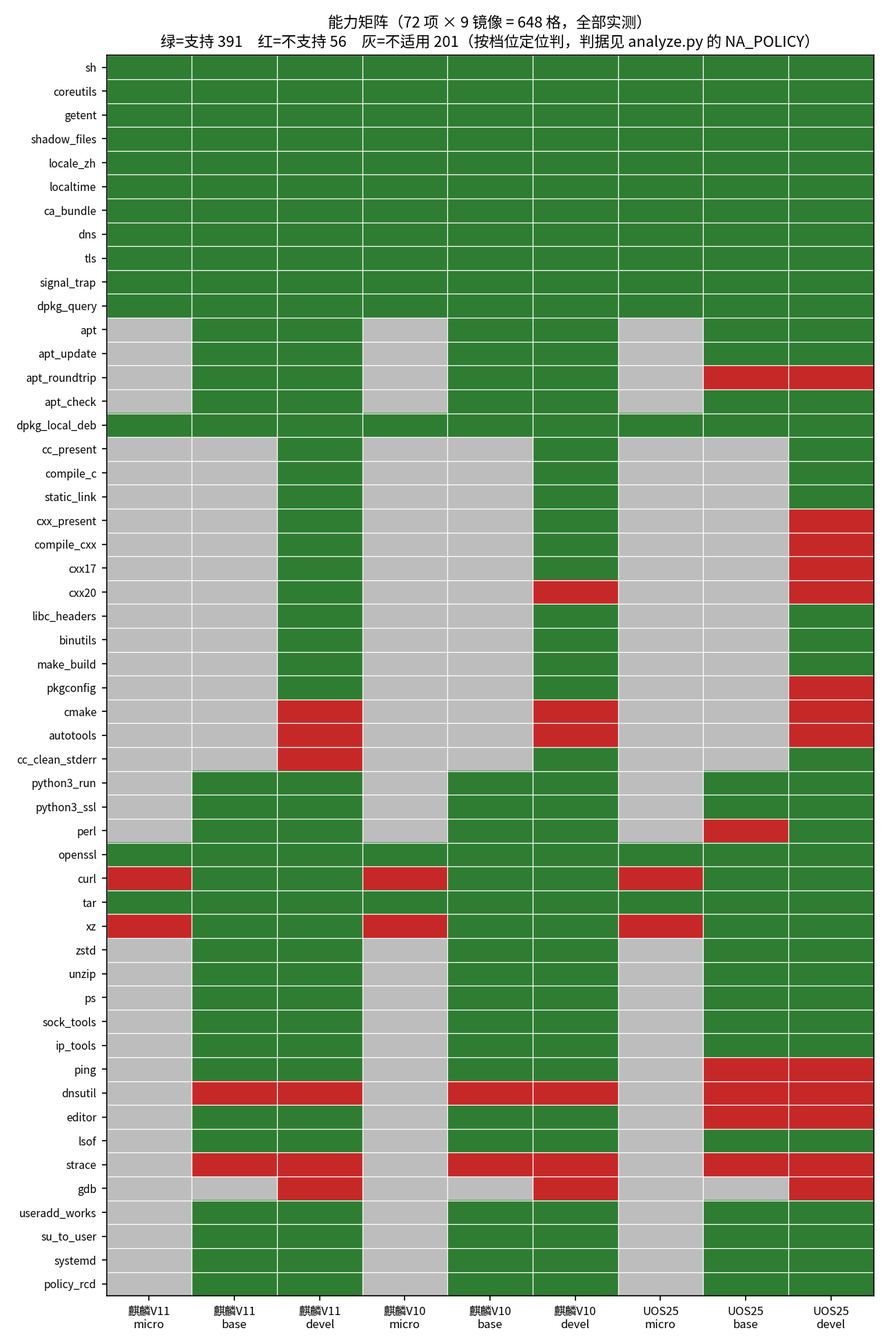
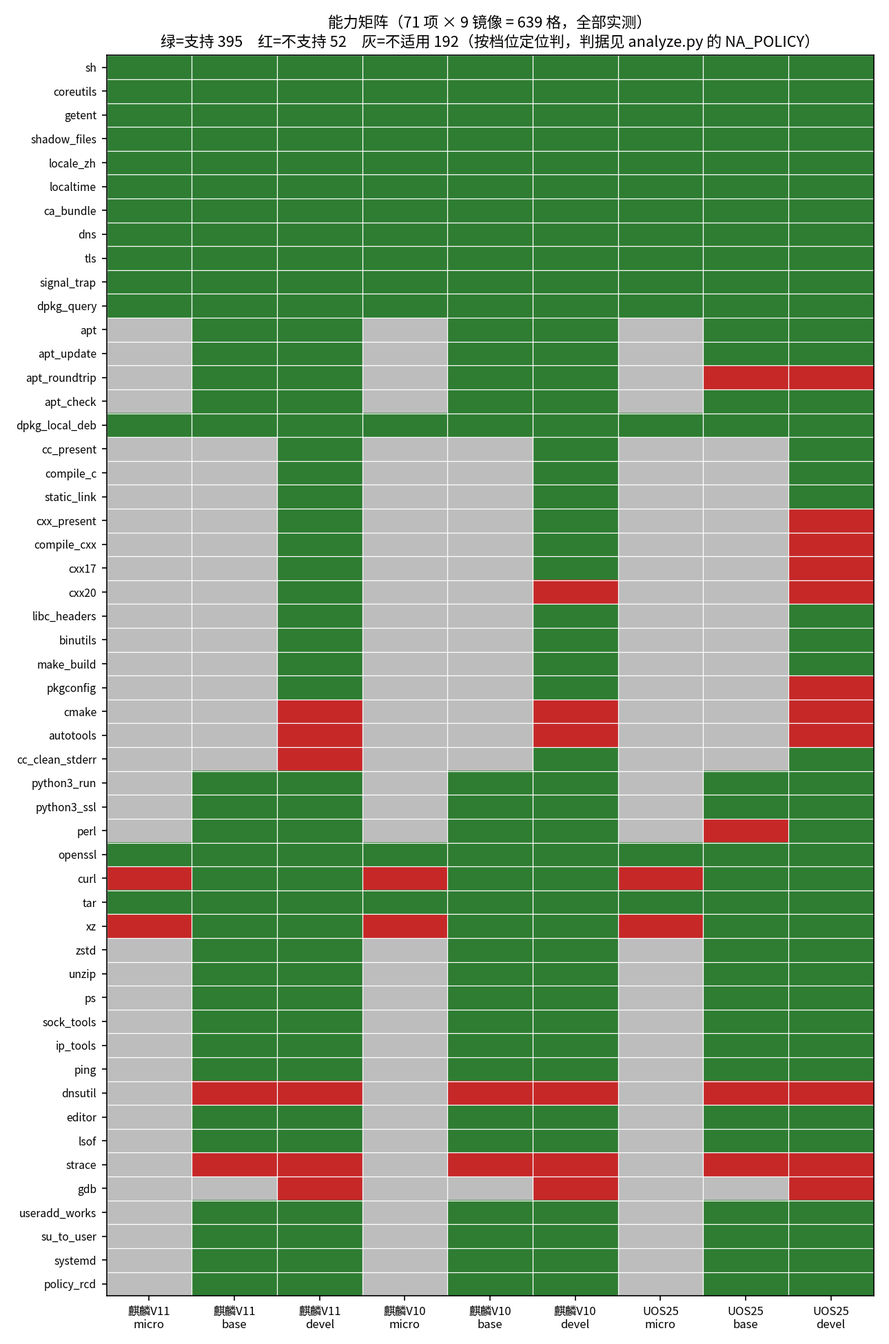
第三轮审稿修复：头条数字错、证据可被静默清零、门禁可被静默缩水
三个要命的
- 能力矩阵头条数字 391/56 是错的。给 UOS 切片补 iputils-ping/vim-tiny 重建镜像之后
  **能力探针没有重跑**，矩阵里 ping/editor 还是 N，正文与 §5.1「三家齐平」自相矛盾。
  重跑后真值 395/52。并给 collect_d3 加 provenance 断言：探针输出的 mtime 早于镜像
  Created 即 exit 1 —— 这类「数据比被测对象旧」的错必须机器可发现。
  （该断言首版自己有 bug：docker 的 .Created 带纳秒，fromisoformat 解析不了，已修。）
- collect_d6 把上一轮刚从 d4 拆掉的地雷原样又埋了一遍：失败时 exit 0 写盘，而它的
  退化输出恰好等于头条结论（0/14）——一次没连上网的重采会把「麒麟 14/14」静默变成
  「0/14」，看起来完全像真结果，还会把 1636 包清单抹成 null。已加严格守卫。
- verify.py 能被静默缩水：删掉 artifacts/repro-evidence.txt 会让 7 条交叉断言整块
  被 if 跳过，断言数 113→106 而汇总照样全绿。已加断言总数基线；README 抬头的断言数
  也改成与实跑真比对（此前只捕获不比对，写 99999 全绿）。

据实修正
- 「policy 会把 0/14 虚报成 4/14」现在是 6/14 —— 本轮刚加的 ping/vim 让预装数从 4 变 6。
- 「ip/lsof/zstd/unzip/ping/vim-tiny 原先没切进来」列错了：前四个更早一轮已补，
  本轮新增的只有 ping 与 vim-tiny。这是写在「更正事实」段落里的新错误。
- UOS 源规模口径错。4758 是 apt-cache stats 的 Total package names，含本机已装的
  OS 包与仅被依赖引用的名字，不是「源里有多少包」。改用源索引条目数：**2496**，
  用 apt-helper cat-file 解开压缩的 Packages 索引数出来。全仓库（含 conf/lib/test
  的注释）统一到这个口径。
- 采集补**阳性对照**：从源索引取一个真实存在的包确认 madison 查得到。没有它，
  「14 个工具全装不上」区分不了「源里没有」与「源根本没通」。
- t11 表按 `:` 切第一段拿到的是包名而非版本，整张「逐工具明细」退化成工具名重复三遍。
  改取 madison 的版本号字段。
- NA_POLICY 清死条目（default_target 已进 INFO_PROBES、masked_units 根本不是探针 key）；
  sudo 九档全 NA 属零信息凑数项且从未被真判定，与「全部实测」的表述冲突，移出矩阵。
  最终口径 71 项 / 639 格 / 支持 395 / 缺口 52 / 不适用 192。
- 补齐零覆盖数字的断言（masked 单元数、setuid 面、三态各项、抬头各项计数），
  全部带上下文避免裸子串撞车。断言 113 → 131 条。

CI 补两步
- 重跑 collect_d4 并与提交的 raw 比对（忽略 collected_at，否则永远失败）：
  此前 artifacts/f4-*.log 自称一手证据却没有任何东西对账，改「通过 365→300」全绿。
  现在改坏日志即被抓（已自证）。
[…]

diff --git a/scripts/analyze.py b/scripts/analyze.py
@@ -105,16 +105,15 @@ NA_POLICY = {
               "autotools", "cc_clean_stderr", "python3_dev", "python3", "python3_run",
               "python3_ssl", "perl", "git", "zstd", "unzip", "ps", "top", "sock_tools",
               "ip_tools", "ping", "dnsutil", "file", "pager", "editor", "lsof", "strace", "gdb",
-              "useradd", "useradd_works", "su_to_user", "sudo", "systemd", "default_target",
-              "masked_units", "policy_rcd"},
+              "useradd", "useradd_works", "su_to_user", "systemd", "policy_rcd"},
     # base 的 NA 集里原先有 strace —— 但 §3 给 base 的定位明写了「线上排查」，
     # 而 strace 是纯排查工具、不依赖工具链，把它判成「不适用」与定位直接冲突。
     # 改为如实记 N（麒麟侧一条 apt 就有，见 t11；UOS 侧是真缺口）。
     # gdb 保留 NA：它要调试符号与工具链生态，属 devel 范畴。
     "base":  {"cc_present", "compile_c", "static_link", "cxx_present", "compile_cxx", "cxx17",
               "cxx20", "libc_headers", "binutils", "make", "make_build", "pkgconfig", "cmake",
-              "autotools", "cc_clean_stderr", "python3_dev", "git", "gdb", "sudo"},
-    "devel": {"sudo"},
+              "autotools", "cc_clean_stderr", "python3_dev", "git", "gdb"},
+    "devel": set(),
 }
 # 探针输出里有两类东西，不能混算：
 #   INFO_PROBES 是**环境指纹**（架构、glibc 版本、setuid 数量……），值是版本号或计数，
@@ -124,10 +123,14 @@ NA_POLICY = {
 # 指纹另出一张 t10 表，哨兵由 collect 阶段硬断言，两者都不进三态矩阵。
 INFO_PROBES = {"arch", "glibc", "os_id", "setuid_bins", "file_caps", "default_target"}
 SENTINELS = {"probe_complete"}
+# sudo 在九档全是 NA，是零信息的凑数项（占 9 格），而且它从未被真判定过 ——
+# 与「648 格全部实测」的表述冲突。直接从矩阵里去掉，理由写在 report.md §3。
+# default_target 已进 INFO_PROBES，masked_units 根本不是探针 key，两个死条目一并清掉。
+EXCLUDED = {"sudo"}
 
 probes = d3["probes"]
 allkeys = sorted({k for v in probes.values() for k in v if not k.startswith("_")})
-keys = [k for k in allkeys if k not in INFO_PROBES and k not in SENTINELS]
+keys = [k for k in allkeys if k not in INFO_PROBES and k not in SENTINELS and k not in EXCLUDED]
 order = [f"{d}:{t}" for d in ["kylin11", "kylin10", "uos25"] for t in ["micro", "base", "devel"]]
 
 def tri(col, key):
@@ -198,9 +201,16 @@ csv("t09_build_paths.csv",
 S["build_methods"] = sorted({i["method"] for i in d5["isos"]})
 
 # ── T11 工具可装性：区分「没预装」与「装不上」的定量依据 ────────────────────
-rows = [[t] + [d6["images"][k]["candidates"].get(t, "?").split(":")[0] if
-               d6["images"][k]["candidates"].get(t, "NOREPO") != "NOREPO" else "装不上"
-               for k in ("kylin11", "kylin10", "uos25")] for t in d6["tools"]]
+def _cand(k, t):
+    """candidates[t] 形如 `iproute2: iproute2 | 6.1.0-ok1k0.1 | http://…`。
+    早先按 `:` 切第一段，拿到的是包名而不是版本，整张明细表退化成工具名重复三遍。
+    这里取 madison 输出的第二段（版本号），那才是「装得上、装的是哪版」的信息。"""
+    v = d6["images"][k]["candidates"].get(t, "NOREPO")
+    if v == "NOREPO":
+        return "装不上"
+    parts = [x.strip() for x in v.split("|")]
+    return parts[1] if len(parts) > 1 else v
+rows = [[t] + [_cand(k, t) for k in ("kylin11", "kylin10", "uos25")] for t in d6["tools"]]
 csv("t11_tool_installability.csv", ["tool", "kylin11", "kylin10", "uos25"], rows)
 for k in ("kylin11", "kylin10", "uos25"):
     S[f"installable_{k}"] = d6["images"][k]["installable"]
@@ -211,8 +221,14 @@ S["uos_iso_has_gxx"] = _has.get("g++")
 S["uos_iso_missing"] = sorted(k for k, v in _has.items() if v is False)
 # UOS apt 源规模：从 apt-cache stats 的原文里取
 import re as _re
-_m = _re.search(r"Total package names:\s*(\d+)", d6.get("uos_apt_scale") or "")
-S["uos_apt_package_names"] = int(_m.group(1)) if _m else None
+# 源规模用索引条目数，不用 Total package names（后者含已装与被引用的名字）
+_sc = d6.get("uos_apt_scale") or ""
+_m = _re.search(r"---repo-entries---\s*\n\s*(\d+)", _sc)
+S["uos_apt_repo_packages"] = int(_m.group(1)) if _m else None
+_m0 = _re.search(r"Total package names:\s*(\d+)", _sc)
+S["uos_apt_total_names"] = int(_m0.group(1)) if _m0 else None
+# 阳性对照：源里真实存在的包必须查得到，用来区分「源里没有」与「源没通」
+S["uos_apt_positive_control"] = bool(_re.search(r"---positive-control---\s*\nsample=\S+\n\s*\S+\s*\|", _sc))
 _m2 = _re.search(r"Normal packages:\s*(\d+)", d6.get("uos_apt_scale") or "")
 S["uos_apt_normal_packages"] = int(_m2.group(1)) if _m2 else None
 

diff --git a/scripts/verify.py b/scripts/verify.py
@@ -7,7 +7,7 @@
 ⚠ 它只覆盖被写成断言的那些数字。未被覆盖的仍需人工核对，
 不要把「verify 全绿」等同于「每个数字都被机器核过」。
 """
-import json, pathlib, re, sys
+import json, os, pathlib, re, sys
 
 ROOT = pathlib.Path(__file__).resolve().parent.parent
 S = json.loads((ROOT / "derived" / "stats.json").read_text())
@@ -95,7 +95,10 @@ ok(S["installable_kylin10"] == S["installability_tools"], "麒麟 V10 应 14/14 
 ok(S["installable_uos25"] == 0, "UOS 应 0/14 —— 这是「硬缺口」论断的定量依据")
 in_text(S["uos_iso_packages"], label="UOS ISO 包数")
 ok(S["uos_iso_has_gxx"] is False, "UOS ISO 里不应有 g++（C++ 构建环境论断的依据）")
-in_text(S["uos_apt_package_names"], label="UOS apt 源包名数")
+in_text(S["uos_apt_repo_packages"], label="UOS 源提供的包数",
+        ctx=rf"源只提供 {S['uos_apt_repo_packages']} 个包")
+ok(S["uos_apt_positive_control"] is True,
+   "UOS 源规模采集必须带阳性对照 —— 否则「工具都装不上」区分不了「源里没有」与「源没通」")
 ok(S["sbom_passed"] == 9, "sbom 应 9 个镜像全通过")
 ok(S["mutation_skipped"] == 1, "变异测试有 1 条跳过（mtab），正文必须交代")
 in_text("1 跳过", label="变异跳过项")
@@ -124,6 +127,29 @@ t8 = (TAB / "t08_vendor_defects.csv").read_text().splitlines()
 ok(len(t8) - 1 == S["defects"], "t08 行数应等于缺陷数")
 for d in ("D01", "D02", "D05", "D08", "D09", "D10", "D12"):
     ok(d in REPORT or d in t8[0] or any(d in l for l in t8), f"缺陷 {d} 应在正文或表里出现")
+
+# ── 覆盖 review 点名的零覆盖数字（都带上下文，避免裸子串撞车）──────────────
+for d, n in S["masked_units_by_distro"].items():
+    nm = {"kylin10": "麒麟 V10", "kylin11": "麒麟 V11", "uos25": "UOS"}[d]
+    ok(any(re.search(rf"{n} 个", x) for x in [REPORT]), f"正文应写明 {nm} 的 masked 单元数 {n}")
+in_text(S["setuid_micro"]["kylin10"], label="V10 micro 的 setuid 数",
+        ctx=rf"V10 micro 档有 {S['setuid_micro']['kylin10']} 个")
+in_text(S["setuid_micro"]["kylin11"], label="micro 的 setuid 数",
+        ctx=rf"各只有 {S['setuid_micro']['kylin11']} 个 setuid")
+in_text(S["cells_supported"], label="支持格数", ctx=rf"支持 {S['cells_supported']}、")
+in_text(S["cells_gap"], label="缺口格数", ctx=rf"缺口 {S['cells_gap']}、")
+in_text(S["cells_na"], label="不适用格数", ctx=rf"不适用 {S['cells_na']}")
+in_text(S["mutation_caught"], label="变异用例数", ctx=rf"变异用例 \*\*{S['mutation_caught']}\*\* 条")
+
+# README 抬头的各项计数
+for v, lbl, ctx in [
+    (S["images_built"], "构建镜像数", r"构建镜像 \*\*{v}\*\* 个"),
+    (len(S["build_methods"]), "构建路径数", r"构建路径 \*\*{v}\*\* 条"),
+    (S["capability_cells"], "能力矩阵格数", r"能力矩阵 \*\*{v}\*\* 格"),
+    (S["defects"], "缺陷条数", r"厂商缺陷留档 \*\*{v}\*\* 条"),
+]:
+    in_text(v, where="readme", label=f"README {lbl}", ctx=ctx.replace("{v}", str(v)))
+    in_text(v, where="report", label=f"report {lbl}", ctx=ctx.replace("{v}", str(v)))
 
 # ── 结构性检查 ──────────────────────────────────────────────────────────────
 # 图表引用只查**正文**：附录 A/B 是完整索引，若把附录算进来，这条断言永不失败
@@ -158,7 +184,19 @@ if m:
 mr = re.search(r"机器核对断言 \*\*(\d+)\*\* 条", README)
 ok(mr is not None, "README 抬头应声明机器核对断言条数")
 
-print(f"执行断言 {N} 条")
+# 断言总数基线。没有它，删掉 artifacts/repro-evidence.txt 会让 7 条交叉断言整块被
+# if 跳过，断言数从 113 悄悄掉到 106 而汇总照样全绿 —— 证据消失即断言消失。
+# 这与 test/verify.sh 里对镜像检查数设基线是同一个道理，之前只给那边设了。
+BASELINE = int(os.environ.get("VERIFY_BASELINE", "131"))
+if N < BASELINE:
+    print(f"❌ 执行断言 {N} 条，低于基线 {BASELINE} —— 有断言被静默跳过"
+          f"（证据文件缺失？条件分支没进去？）")
+    sys.exit(1)
+# README 抬头的断言数必须与实际执行数相等（此前只捕获不比对，写 99999 也全绿）。
+# ⚠ 这条检查**不走 ok()**：它自己若计入 N，抬头数就永远比实跑少 1，形成自指。
+if mr and int(mr.group(1)) != N:
+    BAD.append(f"README 抬头写的机器核对断言 {mr.group(1)} 条 ≠ 实际执行 {N} 条")
+print(f"执行断言 {N} 条（基线 {BASELINE}）")
 if BAD:
     print(f"❌ {len(BAD)} 条未过：")
     for b in BAD: print("  ✗", b)

diff --git a/scripts/collect_d3_capabilities.py b/scripts/collect_d3_capabilities.py
@@ -8,7 +8,7 @@ TLS 要真握手、apt 要真装真卸。不看包列表推断 —— 装了 gcc
   --run   现场重跑 test/run-capabilities.sh（需要九个镜像已在本地 docker 里）
   默认    从 --from 指定目录读已落盘的 caps-*.txt（用于在没有镜像的机器上重算）
 """
-import argparse, json, os, pathlib, subprocess, sys, time
+import argparse, datetime, json, os, pathlib, re, subprocess, sys, time
 
 ROOT = pathlib.Path(__file__).resolve().parent.parent
 OUT = ROOT / "raw" / "d3_capabilities.json"
@@ -39,18 +39,39 @@ def main():
     src = pathlib.Path(a.src)
     data = {"collected_at": time.strftime("%Y-%m-%dT%H:%M:%SZ", time.gmtime()),
             "source_dir": str(src), "probes": {}}
-    missing = []
+    missing = []; stale = []
     for d in DISTROS:
         for t in TIERS:
             f = src / f"caps-{d}-{t}.txt"
             if not f.exists():
                 missing.append(f.name); continue
             kv = parse_caps(f.read_text(errors="replace"))
+            # provenance：探针输出必须不早于镜像本身。UOS 补了 iputils-ping/vim-tiny
+            # 重建之后探针没重跑，矩阵里 ping/editor 还是 N，头条数字因此错了 4 格 ——
+            # 这类「数据比被测对象旧」的错误必须机器可发现。
+            img = {"kylin11": "kylin-desktop-v11", "kylin10": "kylin-desktop-v10",
+                   "uos25": "uos-desktop-v25"}[d] + ":" + t
+            created = subprocess.run(
+                f"docker image inspect {img} --format '{{{{.Created}}}}'",
+                shell=True, capture_output=True, text=True).stdout.strip()
+            if created:
+                mt = datetime.datetime.fromtimestamp(f.stat().st_mtime, datetime.timezone.utc)
+                # docker 的 .Created 带纳秒（9 位小数），fromisoformat 在 3.11 前只吃 3/6 位，
+                # 直接解析会抛 ValueError 把整个采集打断 —— 截断到微秒再解。
+                _c = re.sub(r"(\.\d{6})\d+", r"\1", created.replace("Z", "+00:00"))
+                ct = datetime.datetime.fromisoformat(_c)
+                kv["_probe_mtime"] = mt.isoformat()
+                kv["_image_created"] = ct.isoformat()
+                if mt < ct:
+                    stale.append(f"{img}：探针 {mt:%H:%M:%SZ} 早于镜像 {ct:%H:%M:%SZ}")
             # 哨兵：探针必须跑到最后一行，否则前面所有「通过」都不可信
             kv["_probe_complete"] = kv.get("probe_complete", "N")
             data["probes"][f"{d}:{t}"] = kv
     if missing:
         print(f"!! 缺少探针输出：{missing}", file=sys.stderr); sys.exit(1)
+    if stale:
+        print("!! 探针输出比镜像旧，数据不可用（重跑 test/run-capabilities.sh）：\n  - "
+              + "\n  - ".join(stale), file=sys.stderr); sys.exit(1)
     bad = [k for k, v in data["probes"].items() if v["_probe_complete"] != "Y"]
     if bad:
         print(f"!! 这些探针没跑完，数据不可用：{bad}", file=sys.stderr); sys.exit(1)

diff --git a/scripts/collect_d6_installability.py b/scripts/collect_d6_installability.py
@@ -82,9 +82,23 @@ def main():
         data["cxx_probe"][did] = dsh(img, cxx_script)
 
     print("  UOS apt 源规模", file=sys.stderr)
+    # ⚠ 口径：`apt-cache stats` 的 Total package names 不是「源里有多少包」——
+    # 它把本机已装的 OS 包和只在依赖里被引用过的名字也算进去了。真正该引用的是
+    # 源索引里的条目数，用 apt-helper 解开压缩的 Packages 索引来数。
+    # 另外补一条**阳性对照**：源里确实存在的某个包必须能被 madison 查到，
+    # 否则「14 个工具都装不上」区分不了「源里没有」与「源根本没通」。
     data["uos_apt_scale"] = dsh("uos-desktop-v25:base",
-        "apt-get update -qq >/dev/null 2>&1; apt-cache stats 2>/dev/null | head -6; "
-        "echo '---pkgnames---'; apt-cache pkgnames 2>/dev/null | sort -u | wc -l; "
+        "apt-get update -qq >/dev/null 2>&1\n"
+        "echo '---stats---'; apt-cache stats 2>/dev/null | head -6\n"
+        "echo '---repo-entries---'\n"
+        "apt-get indextargets --format '$(FILENAME)' 2>/dev/null | grep binary-amd64 | "
+        "while read f; do /usr/lib/apt/apt-helper cat-file \"$f\" 2>/dev/null; done | "
+        "grep -c '^Package: '\n"
+        "echo '---positive-control---'\n"
+        "p=$(apt-get indextargets --format '$(FILENAME)' 2>/dev/null | grep binary-amd64 | "
+        "while read f; do /usr/lib/apt/apt-helper cat-file \"$f\" 2>/dev/null; done | "
+        "sed -n 's/^Package: //p' | head -1)\n"
+        "echo \"sample=$p\"; apt-cache madison \"$p\" 2>/dev/null | head -1\n"
         "echo '---nano---'; apt-cache policy nano 2>/dev/null | head -3")
 
     # UOS ISO 内的包清单：从切片源的 dpkg info 目录数 .list 文件
@@ -104,6 +118,22 @@ def main():
         }
     else:
         print("!! 取不到 UOS 切片源的包清单（需要 builder 容器 dosb 在跑）", file=sys.stderr)
+
+    # 失败即退出，绝不写盘。这个脚本的退化输出恰好等于它的头条结论（0/14）——
+    # 一次没连上网的重采会把「麒麟 14/14」静默变成「麒麟 0/14」，看起来完全像真结果，
+    # 还会把已提交的 1636 包清单抹成 null。比 d4 那次更危险，所以守卫要更严。
+    bad = []
+    for did, _ in IMAGES:
+        r = data["images"].get(did, {})
+        if not r.get("raw"):
+            bad.append(f"{did} 的探针无输出（镜像不在？docker 不可用？）")
+    if not (data.get("uos_apt_scale") or "").strip():
+        bad.append("UOS apt 源规模没采到")
+    if not data.get("uos_iso_inventory"):
+        bad.append("UOS ISO 包清单没采到（需要 builder 容器 dosb 在跑，或设 UOS_SLICE_SRC）")
+    if bad:
+        print("!! 采集不完整，不写盘：\n  - " + "\n  - ".join(bad), file=sys.stderr)
+        sys.exit(1)
 
     OUT.write_text(json.dumps(data, ensure_ascii=False, indent=2) + "\n")
     s = " ".join(f"{d}={data['images'][d]['installable']}/{len(TOOLS)}" for d, _ in IMAGES)

diff --git a/README.md b/README.md
@@ -1,8 +1,8 @@
 # 从 ISO 为国产桌面操作系统构建分档容器镜像
 
-> 基准日 **2026-08-30** ｜ 构建镜像 **9** 个（3 发行版 × 3 档位）｜ 构建路径 **3** 条 ｜ 能力矩阵 **648** 格全部实测 ｜ 验收断言 **365** 条 ｜ 变异用例 **12** 条 ｜ 机器核对断言 **113** 条（`python3 scripts/verify.py`）｜ 厂商缺陷留档 **12** 条 ｜ 一手数据集 **6** 组 ｜ 图 **6** 张 ｜ 可复算表 **13** 张
+> 基准日 **2026-08-30** ｜ 构建镜像 **9** 个（3 发行版 × 3 档位）｜ 构建路径 **3** 条 ｜ 能力矩阵 **639** 格全部实测 ｜ 验收断言 **365** 条 ｜ 变异用例 **12** 条 ｜ 机器核对断言 **131** 条（`python3 scripts/verify.py`）｜ 厂商缺陷留档 **12** 条 ｜ 一手数据集 **6** 组 ｜ 图 **6** 张 ｜ 可复算表 **13** 张
 
-要把编译好的软件交付到客户的银河麒麟或统信 UOS 桌面上，交付前得先在那个环境里验一遍。厂商发的是 ISO，容器镜像要么没有、要么不是同一个东西。本仓库把"从桌面版 ISO 自己造分档镜像"这件事做通并留下完整证据：三条构建路径、九个镜像、648 格实测能力矩阵、五道验收门禁。
+要把编译好的软件交付到客户的银河麒麟或统信 UOS 桌面上，交付前得先在那个环境里验一遍。厂商发的是 ISO，容器镜像要么没有、要么不是同一个东西。本仓库把"从桌面版 ISO 自己造分档镜像"这件事做通并留下完整证据：三条构建路径、九个镜像、639 格实测能力矩阵、五道验收门禁。
 
 **完整报告：[`report.md`](report.md)**
 
@@ -18,7 +18,7 @@
 | 2 | **误读的技术根源是一个字段：两者 `os-release` 的 `ID` 都是 `kylin`。** 按 `ID` 判发行版是常见做法，而这个字段在这里不具备区分力，得看 `NAME` 或包格式 | [§2.1](report.md#21-麒麟有官方镜像是个误读那是另一条产品线)、`os_id_collision=True` |
 | 3 | **商业桌面线的官方容器镜像一个都没有。** 8 条存在性探测里只有 1 条命中：麒麟桌面 0 个、统信 UOS 0 个，连服务器线的 `kylin-server-minimal:v11` 也不存在。社区线则有（openKylin 2.0/3.0、deepin-core、beige、apricot） | [§2](report.md#2-国产桌面-os-的官方容器镜像现状)、[`t02`](derived/tables/t02_registry_existence_probes.csv) |
 | 4 | **一条 ISO 一条路。** 三个被试没有一条通用路径：V11 走 `mmdebstrap`，V10 因 debconf 依赖环 + 宿主 dpkg 1.22 与目标 1.19.7 的代差只能两阶段自举，UOS V25 是 OSTree 不可变系统只能从 squashfs 按包依赖闭包切片 | [§4](report.md#4-三条构建路径)、[`t09`](derived/tables/t09_build_paths.csv) |
-| 5 | **UOS V25 不能作为 C++ 构建环境。** 它的 ISO（1636 个包）里没有 g++，而它没有 apt 形式的 OS 软件源（源内 4758 个包名全是应用商店 GUI 应用，连 `nano` 都没有），所以装不上。三个 devel 档 C 全通过，C++ 只有两家 | [§6.3](report.md#63-一个必须讲清的区别麒麟的没预装与-uos-的硬缺口) |
+| 5 | **UOS V25 不能作为 C++ 构建环境。** 它的 ISO（1636 个包）里没有 g++，而它没有 apt 形式的 OS 软件源（源只提供 2496 个包且全来自应用商店，连 `nano` 都没有），所以装不上。三个 devel 档 C 全通过，C++ 只有两家 | [§6.3](report.md#63-一个必须讲清的区别麒麟的没预装与-uos-的硬缺口) |
 | 6 | **麒麟的"没预装"与 UOS 的"硬缺口"性质完全不同。** 14 个常见工具的源内可装性：麒麟 V11 **14 / 14**、麒麟 V10 **14 / 14**、UOS V25 **0 / 14**（判据用 `apt-cache madison` 而非 `policy` 的 Candidate，后者会把「已经装了」误计成「装得上」） | [§6.3](report.md#63-一个必须讲清的区别麒麟的没预装与-uos-的硬缺口) |
 | 7 | **dpkg 段错误的真根因是厂商的安全插件，不是 IO 选项。** 麒麟 V11 的 `kysec2-package-plugins` 往 `/var/lib/dpkg/plugins/` 装两个依赖内核态 KYSEC LSM 的 `.so`，而麒麟给 dpkg 打了补丁去 dlopen 它们。此前三次归因全错，其中一次是受控实验里的状态污染 | [§9.2](report.md#92-被推翻的判断与踩过的坑)、缺陷 D02 |
 | 8 | **加包要看真实代价。** 为补一个 `dig` 会经 `bind9-libs` 拖进 `libicu74`（36 MB），麒麟 V11 base 从 345 MB 涨到 407 MB；UOS base 补 `perl` 从 274 MB 涨到 420 MB。两项都已回退 | [§5.1](report.md#51-加包要看真实代价) |
@@ -41,7 +41,7 @@
 
 ## 3. 能力矩阵
 
-72 项 × 9 镜像 = 648 格，全部在镜像内**真跑**：编译要真编译真执行，TLS 要真握手，apt 要真装真卸。支持 391 格、缺口 56 格、不适用 201 格。
+71 项 × 9 镜像 = 639 格，全部在镜像内**真跑**：编译要真编译真执行，TLS 要真握手，apt 要真装真卸。支持 395 格、缺口 52 格、不适用 192 格。
 
 ![能力矩阵热力图](figures/fig03_capability_matrix.png)
 
@@ -132,9 +132,10 @@ tools/
 test/
   verify.sh                     全量验收（365 项，含检查总数基线断言）
   inner-checks.sh               在被测镜像内运行的检查集，结尾有完成哨兵
-  capabilities.sh               能力探针：79 项全部真跑（其中 72 项进三态矩阵，6 项是环境指纹、1 项是完成哨兵）
+  capabilities.sh               能力探针：79 项全部真跑（其中 71 项进三态矩阵，6 项是环境指纹、1 项是完成哨兵、1 项（sudo）因九档全不适用而移出）
   run-capabilities.sh           把探针跑遍九个镜像
-  mutation.sh                   变异测试：故意破坏镜像，确认检查集真的会失败
+  mutation.sh                   变异测试（镜像层）：故意破坏镜像，确认检查集真的会失败
+  mutation-docs.sh              变异测试（分析层）：改坏 stats/正文/凭据，确认 verify.py 真的会失败
   digest-chain.sh               manifest = tar = 镜像 三者对账
   sbom.sh / cve.sh / repro.sh   SBOM 门禁 / CVE（含覆盖度诚实性判据）/ 可复现性凭据
 gate/                         ABI 门禁二进制与其构建记录（build-gates.sh）
@@ -142,14 +143,16 @@ keys/                         麒麟 archive GPG keyring（来源与指纹见 re
 raw/                          一手数据，采集脚本的原始输出逐字保存
   d1_official_images.json       官方镜像可获得性与存在性探测
   d2_our_images.json            九个自建镜像的事实 + 官方镜像产品线对照
-  d3_capabilities.json          能力探针原始输出（79 项 × 9 镜像；三态矩阵取其中 72 项 = 648 格）
+  d3_capabilities.json          能力探针原始输出（79 项 × 9 镜像；三态矩阵取其中 71 项 = 639 格）
   d4_gates.json                 五道门禁结果与九份 manifest 的审计锚点
   d5_iso_and_defects.json       三条路径的配置事实 + 12 条厂商缺陷
+  d6_installability.json        14 个工具在各自源里的可装性、UOS 源规模与 ISO 包清单
 derived/                      从 raw/ 重算，不手写
   stats.json                    正文引用的全部统计量
-  tables/*.csv                  10 张可复算表
+  tables/*.csv                  13 张可复算表
 figures/*.png                 6 张图
-artifacts/                    审计凭据：九份 manifest、可复现性凭据、九份探针原始输出
+artifacts/                    审计凭据：九份 manifest、可复现性凭据、九份探针原始输出、
+                              四份门禁日志（f4-verify/digest/sbom/mutation.log，一手输出可核对）
 scripts/                      collect_d*.py 只采集不判断；analyze.py 只读 raw 只写 derived；
                               plot.py 只读 derived；verify.py 机器核对正文里的每个声明
 ```
